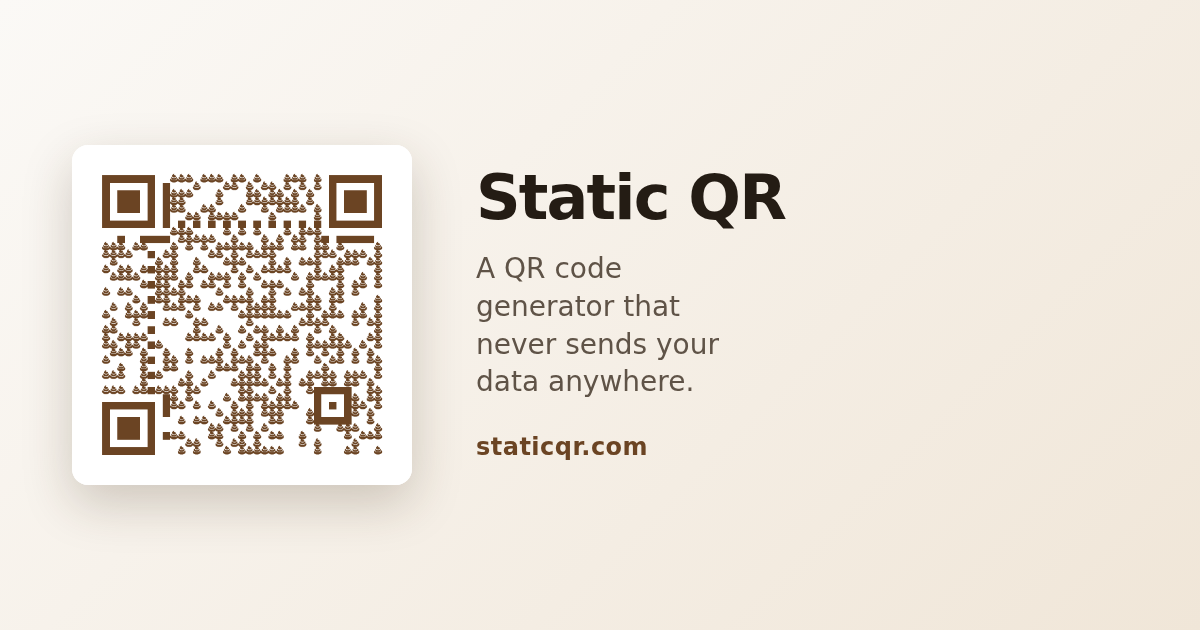
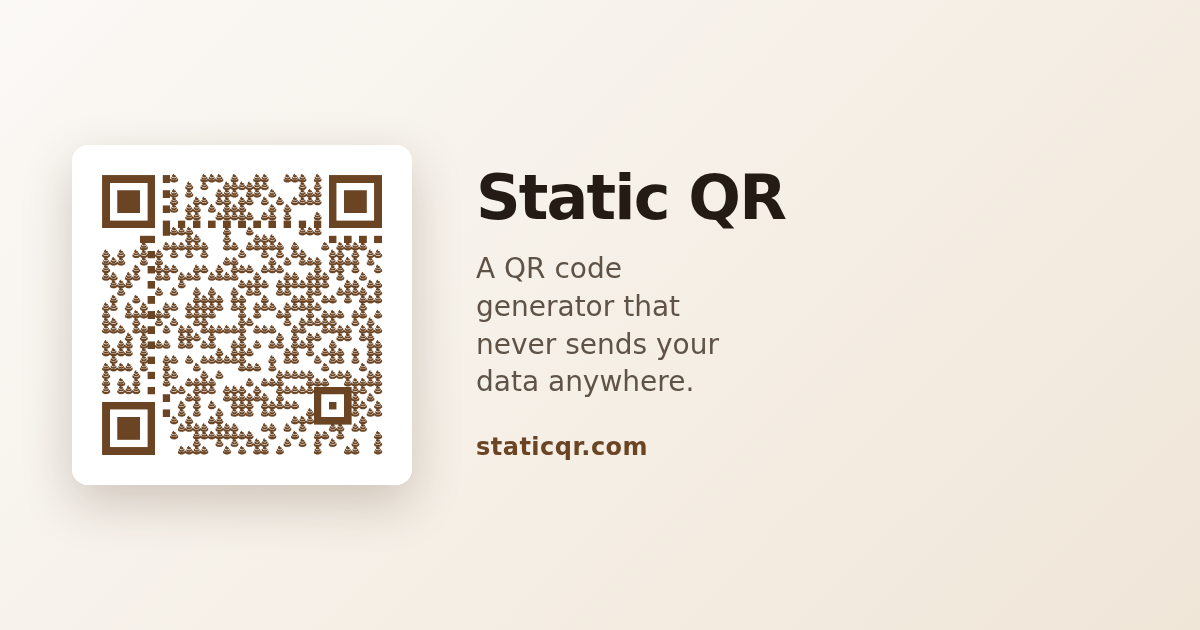
Point everything at the renamed repository
Badges, footer, package metadata and the git remote all move to
tagadvance/static-qr. The README keeps one mention of the old name, now in
past tense, since the poo mode it explains is still there.

The generated images carry the repository URL inside the QR code itself, so
both were regenerated; the README example now decodes to the new address.

Changed region(s): [[0.0617, 0.2714, 0.3392, 0.7238]]

diff --git a/README.md b/README.md
@@ -1,7 +1,7 @@
 # Static QR
 
-[![CI](https://github.com/tagadvance/Crappy-QR/actions/workflows/ci.yml/badge.svg)](https://github.com/tagadvance/Crappy-QR/actions/workflows/ci.yml)
-[![Deploy to Pages](https://github.com/tagadvance/Crappy-QR/actions/workflows/pages.yml/badge.svg)](https://github.com/tagadvance/Crappy-QR/actions/workflows/pages.yml)
+[![CI](https://github.com/tagadvance/static-qr/actions/workflows/ci.yml/badge.svg)](https://github.com/tagadvance/static-qr/actions/workflows/ci.yml)
+[![Deploy to Pages](https://github.com/tagadvance/static-qr/actions/workflows/pages.yml/badge.svg)](https://github.com/tagadvance/static-qr/actions/workflows/pages.yml)
 [![License: MIT](https://img.shields.io/badge/license-MIT-blue.svg)](LICENSE)
 [![Site](https://img.shields.io/badge/site-staticqr.com-6b4423)](https://staticqr.com)
 [![Sponsor](https://img.shields.io/badge/sponsor-%E2%9D%A4-db61a2)](https://github.com/sponsors/tagadvance)
@@ -11,8 +11,8 @@ transmitted, because there is nowhere to transmit it to. Live at
 **[staticqr.com](https://staticqr.com)**.
 
 It also draws QR codes out of the pile of poo emoji, which is how the project
-started and why the repository is called Crappy-QR. That is a style option now,
-rather than the default.
+started and where its old name, Crappy-QR, came from. That is a style option
+now, rather than the default.
 
 ![A QR code drawn with the pile of poo emoji](/images/qr-test.png?raw=true 'QR code to this repository')
 
